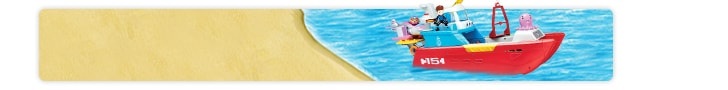
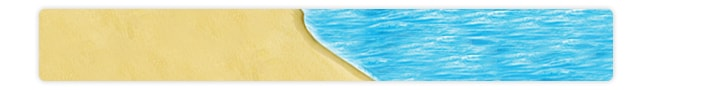
Update animation

Changed region(s): [[0.5137, 0.0, 0.7857, 0.8667]]

diff --git a/2017/2017-07/2017-07-05/source/728x90.css b/2017/2017-07/2017-07-05/source/728x90.css
@@ -431,6 +431,18 @@
   animation: fadeIn 0.75s ease-in-out 1.25s forwards;
 }
 
+.ship {
+  background: url('./images/728x90_ship.png') no-repeat center center;
+  width: 182px;
+  height: 78px;
+  top: 0px;
+  right: 162px;
+
+  -webkit-animation: fadeIn 0.75s ease-in-out 2s forwards;
+  -moz-animation: fadeIn 0.75s ease-in-out 2s forwards;
+  animation: fadeIn 0.75s ease-in-out 2s forwards;
+}
+
 .text {
   background: url('./images/728x90_text.png') no-repeat center center;
   width: 139px;
@@ -438,9 +450,9 @@
   top: 21px;
   left: 127px;
 
-  -webkit-animation: fadeInRight 0.75s ease-in-out 2s forwards;
-  -moz-animation: fadeInRight 0.75s ease-in-out 2s forwards;
-  animation: fadeInRight 0.75s ease-in-out 2s forwards;
+  -webkit-animation: fadeInRight 0.75s ease-in-out 2.75s forwards;
+  -moz-animation: fadeInRight 0.75s ease-in-out 2.75s forwards;
+  animation: fadeInRight 0.75s ease-in-out 2.75s forwards;
 }
 
 .cta {
@@ -450,7 +462,7 @@
   top: 16px;
   right: 16px;
 
-  -webkit-animation: fadeInLeft 0.75s ease-in-out 3s forwards;
-  -moz-animation: fadeInLeft 0.75s ease-in-out 3s forwards;
-  animation: fadeInLeft 0.75s ease-in-out 3s forwards;
+  -webkit-animation: fadeInLeft 0.75s ease-in-out 3.5s forwards;
+  -moz-animation: fadeInLeft 0.75s ease-in-out 3.5s forwards;
+  animation: fadeInLeft 0.75s ease-in-out 3.5s forwards;
 }

diff --git a/2017/2017-07/2017-07-05/source/300x600.css b/2017/2017-07/2017-07-05/source/300x600.css
@@ -327,7 +327,7 @@
 @-webkit-keyframes slideInRightBottom {
   0%   {
     visibility: visible;
-    -webkit-transform: translate(-100%, -30%);
+    -webkit-transform: translate(-100%, -20%);
   }
   100% { 
     visibility: visible;
@@ -337,7 +337,7 @@
 @-moz-keyframes slideInRightBottom {
   0%   {
     visibility: visible;
-    -moz-transform: translate(-100%, -30%);
+    -moz-transform: translate(-100%, -20%);
   }
   100% { 
     visibility: visible;
@@ -347,7 +347,7 @@
 @keyframes slideInRightBottom {
   0%   {
     visibility: visible;
-    transform: translate(-100%, -30%);
+    transform: translate(-100%, -20%);
   }
   100% { 
     visibility: visible;
@@ -445,9 +445,9 @@
   top: 249px;
   right: 8px;
 
-  -webkit-animation: slideInRightBottom 1.5s ease-in-out 2s forwards;
-  -moz-animation: slideInRightBottom 1.5s ease-in-out 2s forwards;
-  animation: slideInRightBottom 1.5s ease-in-out 2s forwards;
+  -webkit-animation: slideInRightBottom 1.5s ease-out 2s forwards;
+  -moz-animation: slideInRightBottom 1.5s ease-out 2s forwards;
+  animation: slideInRightBottom 1.5s ease-out 2s forwards;
 }
 .wave {
   background: url('./images/300x600_wave.png') no-repeat center center;

diff --git a/2017/2017-07/2017-07-05/source/160x600.css b/2017/2017-07/2017-07-05/source/160x600.css
@@ -327,7 +327,7 @@
 @-webkit-keyframes slideInRightBottom {
   0%   {
     visibility: visible;
-    -webkit-transform: translate(-100%, -30%);
+    -webkit-transform: translate(-100%, -20%);
   }
   100% { 
     visibility: visible;
@@ -337,7 +337,7 @@
 @-moz-keyframes slideInRightBottom {
   0%   {
     visibility: visible;
-    -moz-transform: translate(-100%, -30%);
+    -moz-transform: translate(-100%, -20%);
   }
   100% { 
     visibility: visible;
@@ -347,7 +347,7 @@
 @keyframes slideInRightBottom {
   0%   {
     visibility: visible;
-    transform: translate(-100%, -30%);
+    transform: translate(-100%, -20%);
   }
   100% { 
     visibility: visible;
@@ -445,9 +445,9 @@
   top: 223px;
   left: 0px;
 
-  -webkit-animation: slideInRightBottom 1.5s ease-in-out 2s forwards;
-  -moz-animation: slideInRightBottom 1.5s ease-in-out 2s forwards;
-  animation: slideInRightBottom 1.5s ease-in-out 2s forwards;
+  -webkit-animation: slideInRightBottom 1.5s ease-out 2s forwards;
+  -moz-animation: slideInRightBottom 1.5s ease-out 2s forwards;
+  animation: slideInRightBottom 1.5s ease-out 2s forwards;
 }
 .wave {
   background: url('./images/160x600_wave.png') no-repeat center center;

diff --git a/2017/2017-07/2017-07-05/source/300x250.css b/2017/2017-07/2017-07-05/source/300x250.css
@@ -327,7 +327,7 @@
 @-webkit-keyframes slideInRightBottom {
   0%   {
     visibility: visible;
-    -webkit-transform: translate(-100%, -30%);
+    -webkit-transform: translate(-100%, -20%);
   }
   100% { 
     visibility: visible;
@@ -337,7 +337,7 @@
 @-moz-keyframes slideInRightBottom {
   0%   {
     visibility: visible;
-    -moz-transform: translate(-100%, -30%);
+    -moz-transform: translate(-100%, -20%);
   }
   100% { 
     visibility: visible;
@@ -347,7 +347,7 @@
 @keyframes slideInRightBottom {
   0%   {
     visibility: visible;
-    transform: translate(-100%, -30%);
+    transform: translate(-100%, -20%);
   }
   100% { 
     visibility: visible;
@@ -445,9 +445,9 @@
   top: 39px;
   left: 0px;
 
-  -webkit-animation: slideInRightBottom 1.5s ease-in-out 2s forwards;
-  -moz-animation: slideInRightBottom 1.5s ease-in-out 2s forwards;
-  animation: slideInRightBottom 1.5s ease-in-out 2s forwards;
+  -webkit-animation: slideInRightBottom 1.5s ease-out 2s forwards;
+  -moz-animation: slideInRightBottom 1.5s ease-out 2s forwards;
+  animation: slideInRightBottom 1.5s ease-out 2s forwards;
 }
 .wave {
   background: url('./images/300x250_wave.png') no-repeat center center;

diff --git a/2017/2017-07/2017-07-05/source/728x90.html b/2017/2017-07/2017-07-05/source/728x90.html
@@ -15,6 +15,7 @@
 					<div class="content-wrapper container">
 						<div class="bg container">&nbsp;</div>
 						<div class="logo absolute">&nbsp;</div>
+						<div class="ship absolute">&nbsp;</div>
 						<div class="text absolute">&nbsp;</div>
 						<div class="cta absolute">&nbsp;</div>
 					</div>
